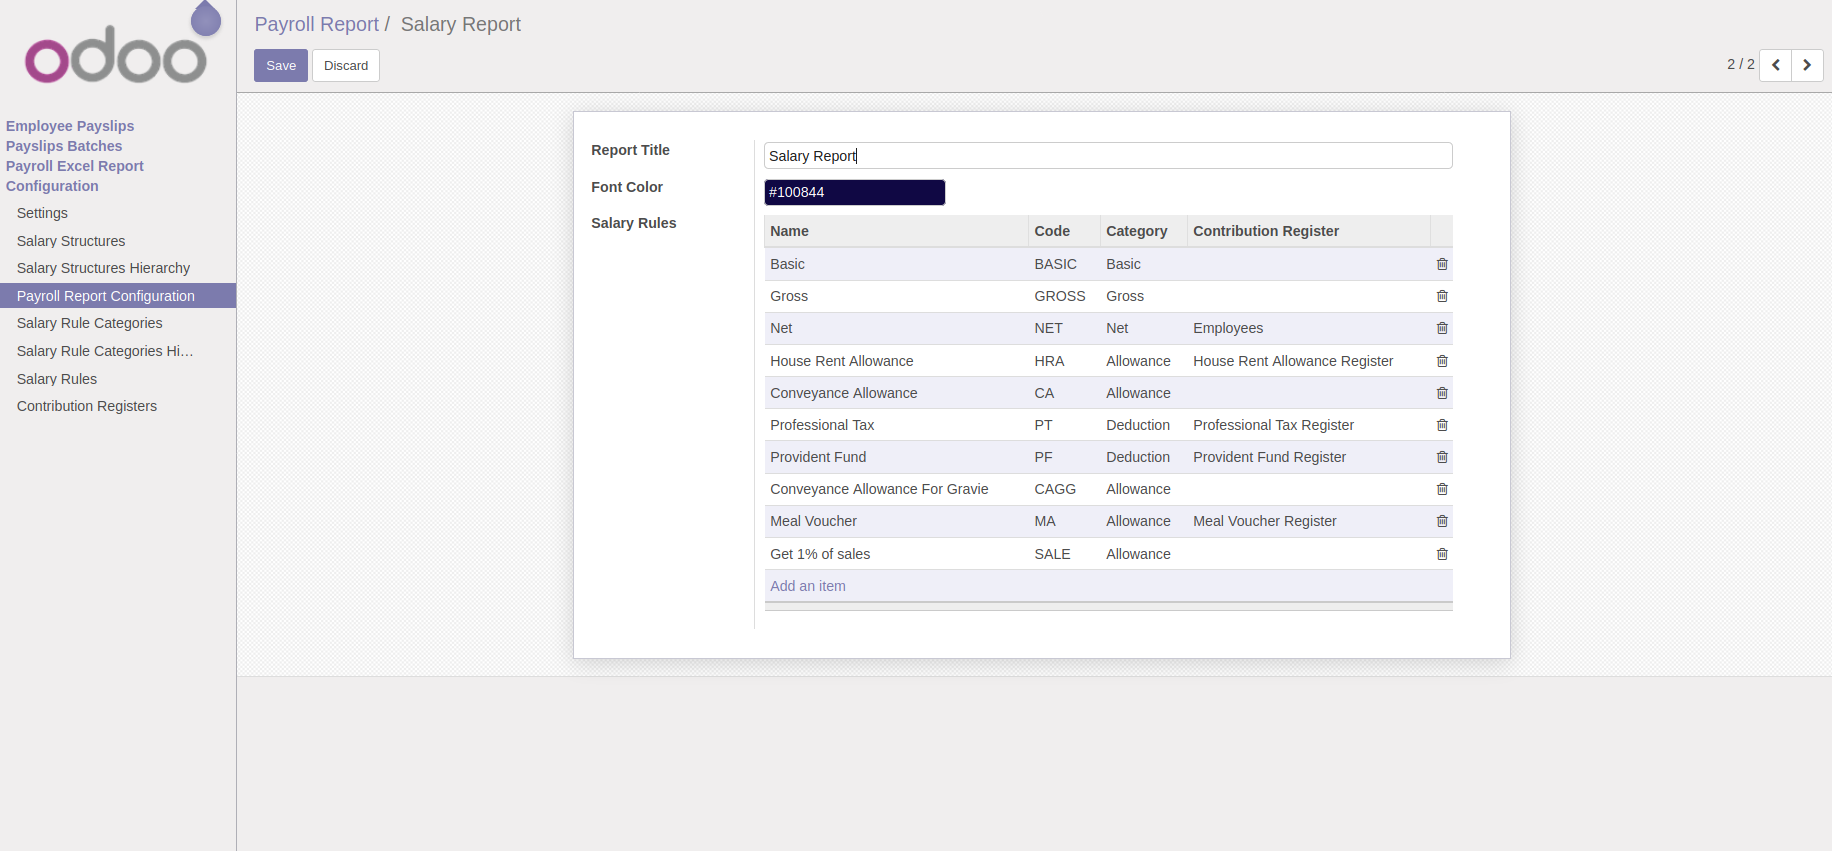
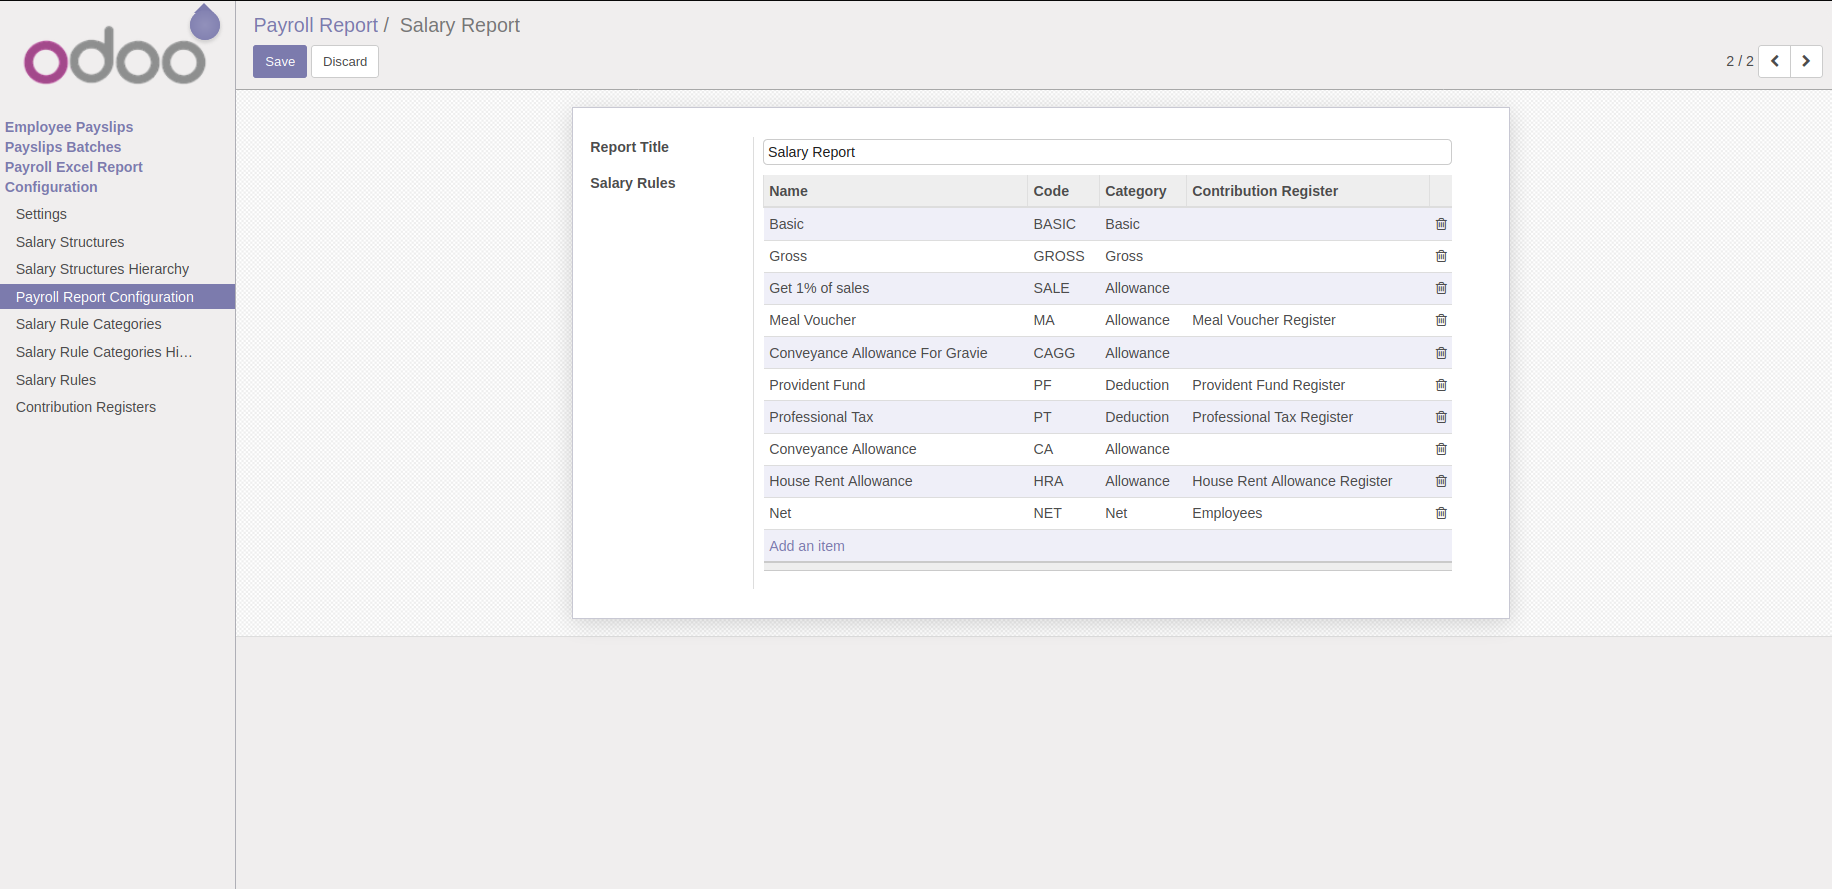
master

diff --git a/payroll_dynamic_xls_report/static/description/index.html b/payroll_dynamic_xls_report/static/description/index.html
@@ -9,7 +9,6 @@
 
     <div class="oe_row oe_spaced">
         <h3 class="oe_slogan">Define Report Name, Salary Rules To Show In The Report</h3>
-        <h3 class="oe_slogan">you can either select font color</h3>
         <div>
             <img class="oe_picture" src="img-1.PNG">
         </div>

diff --git a/payroll_dynamic_xls_report/__manifest__.py b/payroll_dynamic_xls_report/__manifest__.py
@@ -6,7 +6,7 @@
     'summary': 'Dynamic Payroll Report Excel',
     'description': "It shows payroll report in excel for given month,create your own report",
     'author':'Smart Solutions',
-    'depends': ['base','hr', 'hr_payroll','web_widget_color'],
+    'depends': ['base','hr', 'hr_payroll'],
     'data': [
         'security/ir.model.access.csv',
         'views/payroll_report.xml',
@@ -16,7 +16,7 @@
     'auto_install': False,
     'installable': True,
     'application': True,
-    #'licence': 'GPL-3',
+    'licence': 'LGPL-3',
     'price': 25,
     'currency': 'USD',
     'support': 'smartsolutionsit99@gmail.com',

diff --git a/payroll_dynamic_xls_report/wizard/payroll_report_wiz.py b/payroll_dynamic_xls_report/wizard/payroll_report_wiz.py
@@ -54,7 +54,7 @@ class payrollreportexcelwiz(models.TransientModel):
 
     @api.multi
     def get_item_data(self):
-        font_color = self.report.color
+        font_color = '#000000'
         file_name = _('Payroll Report.xlsx')
         fp = BytesIO()
 

diff --git a/payroll_dynamic_xls_report/models/payroll_report.py b/payroll_dynamic_xls_report/models/payroll_report.py
@@ -8,4 +8,3 @@ class payrollReport(models.Model):
 
     rule_ids = fields.Many2many("hr.salary.rule", string="Salary Rules", required=True)
     report_title = fields.Char("Report Title")
-    color = fields.Char("Font Color")
